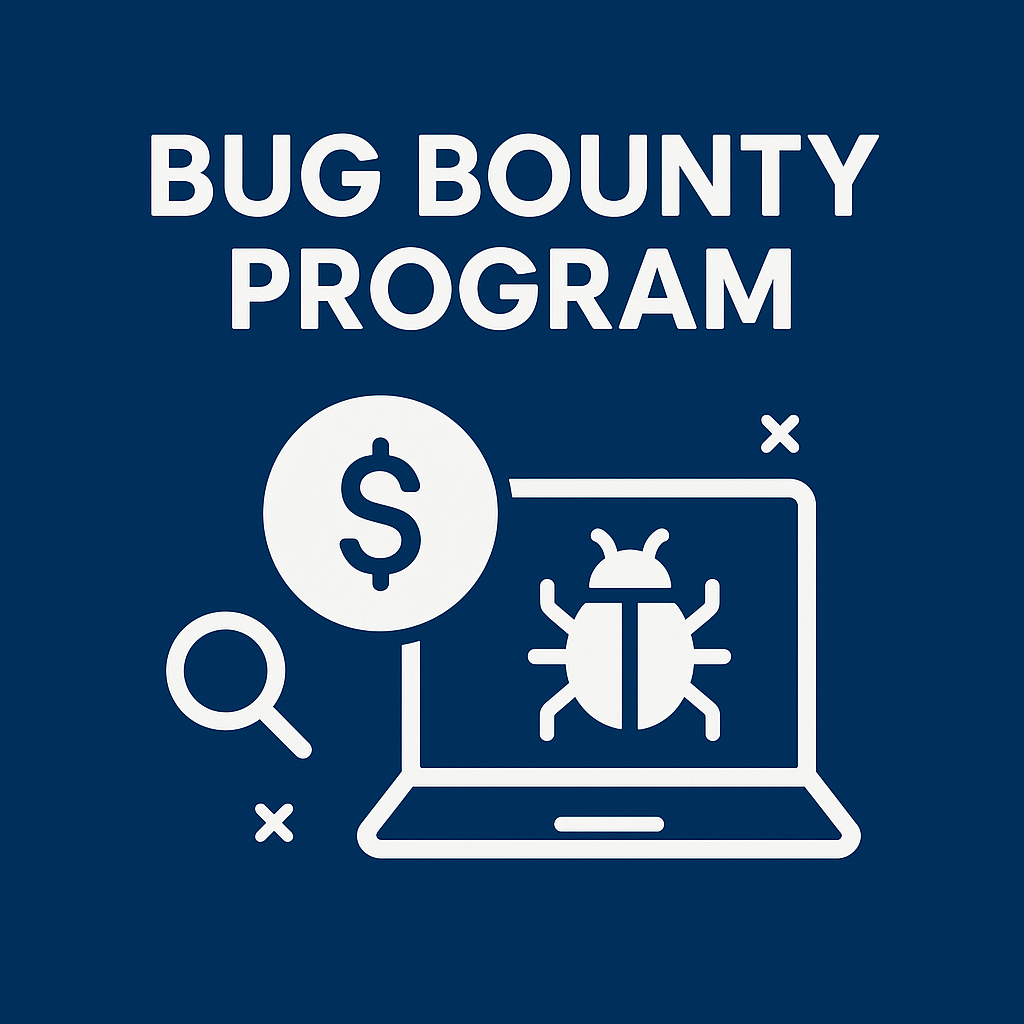
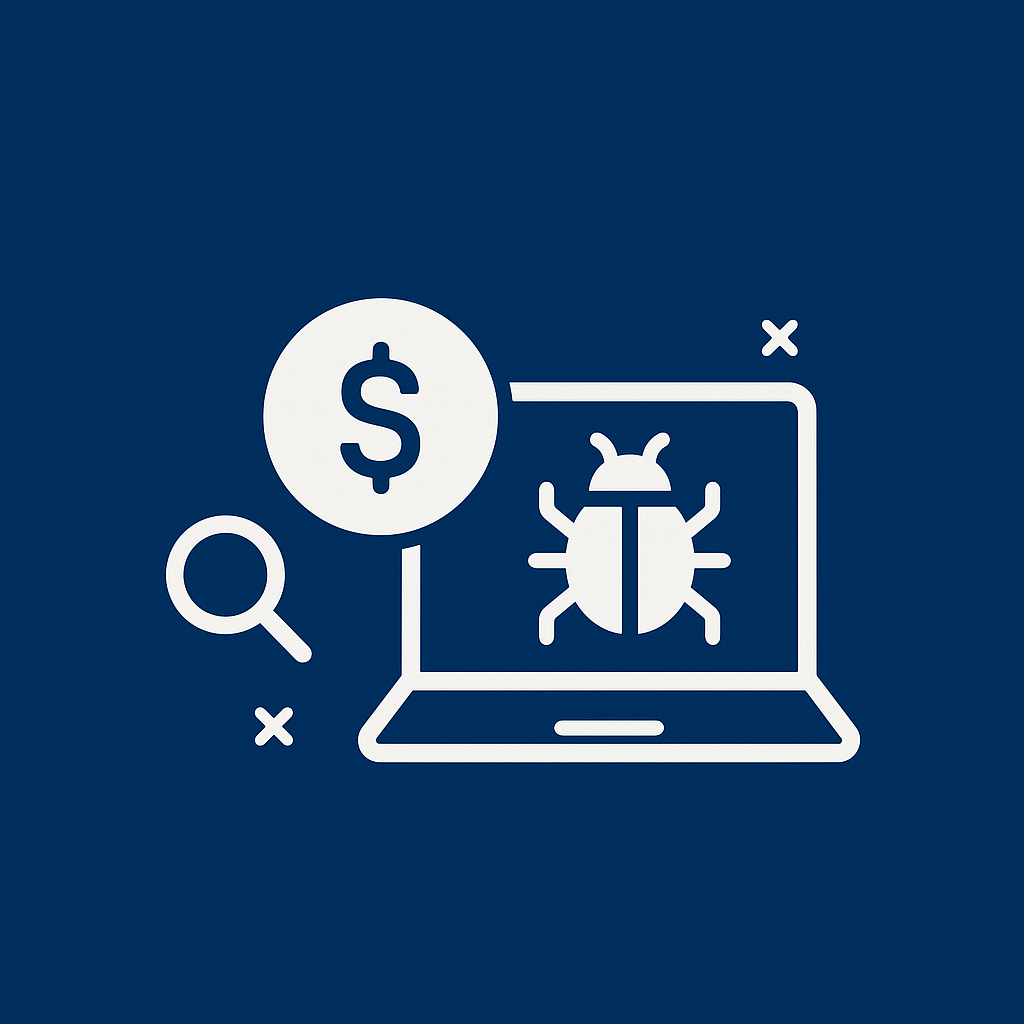
Update bug bounty page hero section with Lottie animation and updated background styling.
Replit-Commit-Author: Agent
Replit-Commit-Session-Id: ba9a71c4-a5c8-4374-b6f7-86a02eb2aef3
Replit-Commit-Screenshot-Url: https://storage.googleapis.com/screenshot-production-us-central1/da6f5186-5e7d-4a1c-9945-ba01f9107ab3/b55c99a0-6819-45c0-b6b0-bbeea86d2c46.jpg

Changed region(s): [[0.125, 0.125, 0.875, 0.8438], [0.25, 0.7812, 0.2812, 0.8438]]

diff --git a/client/src/pages/bug-bounty.tsx b/client/src/pages/bug-bounty.tsx
@@ -2,6 +2,8 @@ import React from 'react';
 import { Button } from '@/components/ui/button';
 import { Link } from 'wouter';
 import SectionHeading from "@/components/shared/section-heading";
+import Lottie from "lottie-react";
+import bugAnimation from "@/assets/animations/bug-animation.json";
 import {
   Fingerprint,
   Target,
@@ -21,7 +23,10 @@ const BugBounty: React.FC = () => {
     <div className="min-h-screen">
       <section className="relative py-20 lg:py-28 overflow-hidden">
         {/* Background Elements */}
-        <div className="absolute inset-0 bg-[#00264d] z-0"></div>
+        <div className="absolute inset-0 bg-gradient-to-b from-[#001c3a] to-[#00264d] z-0"></div>
[1 lines of base64/hex data omitted]
+        <div className="absolute -top-24 -left-24 w-96 h-96 bg-blue-500/10 rounded-full blur-3xl"></div>
+        <div className="absolute -bottom-24 -right-24 w-96 h-96 bg-blue-500/10 rounded-full blur-3xl"></div>
 
         <div className="container mx-auto px-4 relative z-10">
           <div className="flex flex-col md:flex-row items-center">
@@ -48,10 +53,10 @@ const BugBounty: React.FC = () => {
             </div>
             <div className="md:w-1/2 flex justify-center">
               <div className="relative w-full max-w-lg">
-                <img 
-                  src="/src/assets/images/bug-bounty-graphic.png" 
-                  alt="Bug Bounty Program" 
-                  className="w-full h-auto object-contain"
+                <Lottie 
+                  animationData={bugAnimation} 
+                  className="w-full"
+                  style={{ filter: "drop-shadow(0px 0px 20px rgba(255, 255, 255, 0.2))" }}
                 />
               </div>
             </div>
